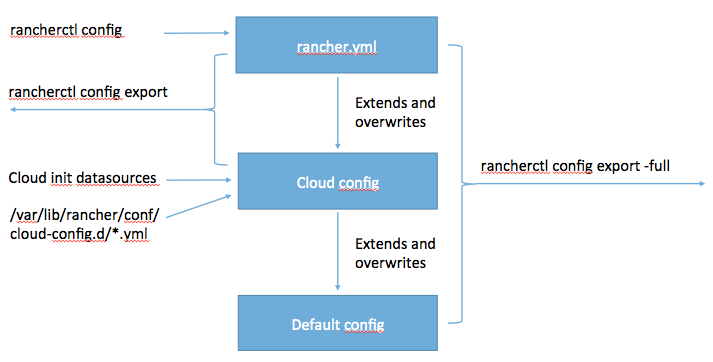
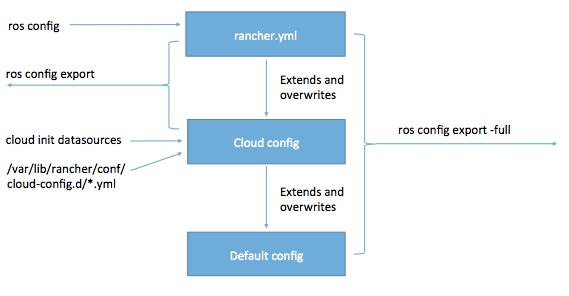
Updated outline and content

Changed region(s): [[0.0, 0.0304, 0.9859, 0.973], [0.3884, 0.0912, 0.5378, 0.152]]

diff --git a/_includes/sidebar.html b/_includes/sidebar.html
@@ -15,17 +15,11 @@
         <!-- Collect the nav links, forms, and other content for toggling -->
         <div class="navbar-collapse">
             <ul class="nav navbar-nav">
-                <li>
-                    <a>Overview</a>
-                    <ul class="list-group-submenu" id="overview">
-                        <li><a href="{{site.baseurl}}/docs/what-is-rancheros/">What is RancherOS?</a></li>
-                        <li><a href="{{site.baseurl}}/docs/why-rancheros/">Why RancherOS?</a></li>
-                        <li><a href="{{site.baseurl}}/docs/architecture/">Architecture</a></li>
-                    </ul>
-                </li>
+                <li><a href="{{site.baseurl}}/">Overview</a></li>
                 <li><a href="{{site.baseurl}}/docs/quick-start-guide/">Quick Start Guide</a></li>
                 <li>
-                    <a>Running RancherOS</a>
+                    <a href="{{site.baseurl}}/docs/running-rancheros/">
+                        Running RancherOS</a>
                     <ul class="list-group-submenu" id="running-rancheros">
                         <li>Workstation</li>
                             <ul>
@@ -49,10 +43,8 @@
                     </ul>
                 </li>
                 <li>
-                    <a>Configuration</a>
+                    <a href="{{site.baseurl}}/docs/configuration/">Configuration</a>
                     <ul class="list-group-submenu" id="configuration">
-                        <li><a href="{{site.baseurl}}/docs/configuration/">How is Rancher Configured?</a></li>
-                        <li><a href="{{site.baseurl}}/docs/configuration/detailed-configuration/">Detailed Configuration</a></li>
                         <li><a href="{{site.baseurl}}/docs/configuration/networking/">Networking</a></li>
                         <li><a href="{{site.baseurl}}/docs/configuration/users/">Users</a></li>
                         <li><a href="{{site.baseurl}}/docs/configuration/ssh-keys/">SSH Keys</a></li>
@@ -68,8 +60,8 @@
                 </li>
                 <li><a href="{{site.baseurl}}/docs/upgrading/">Upgrading</a></li>
                 <li><a href="{{site.baseurl}}/docs/cloud-config/">Cloud Config</a></li>
-                <li>
-                    <a>RancherOS Tools</a>
+                <li><a href="{{site.baseurl}}/docs/rancher-yml/">Rancher.yml</a></li>
+                <li>     <a class="no-list-group">      RancherOS Tools</a>
                      <ul class="list-group-submenu" id="tools">
                          <li><a href="{{site.baseurl}}/docs/rancheros-tools/rancheros-install/">rancheros-install</a>
                         <li><a href="{{site.baseurl}}/docs/rancheros-tools/ros/">ros</a></li>
@@ -83,7 +75,7 @@
                     </ul>
                 </li>
                 <li>
-                   <a>Under the Hood</a>
+                   <a class="no-list-group">Under the Hood</a>
                    <ul class="list-group-submenu" id="under-hood">
                         <li><a href="{{site.baseurl}}/docs/under-the-hood/directories/">How directories are mounted, Ram disk, etc.</a></li>
                         <li><a href="{{site.baseurl}}/docs/under-the-hood/startup-sequence/">RancherOS Startup Sequence</a></li>

diff --git a/css/rancher.css b/css/rancher.css
@@ -150,7 +150,9 @@ hr {
 .navbar-inverse {
     background:#2f333c;
     border: none;
+    color: #FFF;
 }
+
 
 .navbar-inverse .navbar-nav > li > a {
     color: #FFF;
@@ -159,6 +161,17 @@ hr {
 .navbar-inverse .navbar-nav > li > a:focus {
     color: #fff;
     background-color: transparent;
+    text-decoration: underline;
+}
+
+.navbar-inverse .navbar-nav > li > .no-list-group {
+    color: #788188;
+}
+.navbar-inverse .navbar-nav > li > .no-list-group:hover,
+.navbar-inverse .navbar-nav > li > .no-list-group:focus {
+    color: #788188;
+    background-color: transparent;
+    text-decoration: none;
 }
 
 .list-group-item {

diff --git a/index.md b/index.md
@@ -5,18 +5,30 @@ layout: default
 
 ## RancherOS
 ---
-The smallest, easiest way to run Docker in production at scale.  Everything in RancherOS is a container managed by Docker.  This includes system services such as udev and rsyslog.  RancherOS includes only the bare minimum amount of software needed to run Docker.  This keeps the binary download of RancherOS to about 20MB.  Everything else can be pulled in dynamically through Docker.
+The smallest, easiest way to run Docker in production at scale.  Everything in RancherOS is a container managed by Docker. This includes system services such as udev and rsyslog.  RancherOS is dramatically smaller than most traditional operating systems, because it only includes the services necessary to run Docker. This keeps the binary download of RancherOS to about 20MB. By removing unnecessary libraries and services, requirements for security patches and other maintenance are dramatically reduced. This is possible because with Docker, users typically package all necessary libraries into their containers. 
+
+Another way in which RancherOS is designed specifically for running Docker is that it always runs the latest version of Docker. This allows users to take advantage of the latest Docker capabilities and bug fixes. 
+
+Like other minimalist Linux distributions, RancherOS boots incredibly quickly, generally in 5-10 seconds.  Starting Docker containers is nearly instant, similar to starting any other process. This quickness is ideal for organizations adopting microservices and autoscaling.
+
+Docker is an open-source platform designed for developers, system admins, and DevOps, it is used to build, ship, and run containers, using simple yet powerful CLI (Command Line Interface), you can get started with Docker from [Docker user guide](https://docs.docker.com/userguide/).
 
 ### How this works
+---
 
-Everything in RancherOS is a Docker container.  We accomplish this by launching two instances of Docker.  One is what we call the system Docker which runs as PID 1.  System Docker then launches a container that runs the user Docker.  The user Docker is then the instance that gets primarily used to create containers.  We created this separation because it seemed logical and also it would really be bad if somebody did 
+Everything in RancherOS is a Docker container. We accomplish this by launching two instances of Docker. One is what we call **System Docker**, which runs the latest Docker daemon as PID 1, the first process on the system. All other system services, like ntpd, rsyslog, and console, are running in Docker containers. System Docker replaces traditional init systems like systemd, and can be used to launch [additional system services]({{site.baseurl}}/docs/configuration/system-services/).
+
+System Docker runs a special container called **User Docker**, which is another Docker daemon responsible for managing all of the user’s containers. Any containers that you launch as a user from the console will run inside this User Docker. This creates isolation from the System Docker containers, and ensures normal user commands don’t impact system services.
+
+ We created this separation because it seemed logical and also it would really be bad if somebody did 
 `docker rm -f $(docker ps -qa)` and deleted the entire OS.
 
 ![How it works]({{site.baseurl}}/img/rancheroshowitworks.png "How it works")
 
 ## Running RancherOS
 ---
-To find out more about installing RancherOS, read more about it on our [Quick Start Guide]({{site.baseurl}}/docs/quick-start-guide/).
+To find out more about installing RancherOS, jump to our [Quick Start Guide]({{site.baseurl}}/docs/quick-start-guide/).
+
 
 ## Latest Release
 ---

diff --git a/docs/configuration/index.md b/docs/configuration/index.md
@@ -6,7 +6,9 @@ layout: default
 
 ## Configuring RancherOS
 ---
-The configuration of RancherOS is the compilation of different sources. It starts with a default configuration that is shipped with RancherOS, adds in anything found through cloud init process and finally includes any changes that have been made by the user. The cloud-init process can be found in more detail [here]({{site.baseurl}}/docs/cloud-config). Any changes made to RancherOS are made by interacting with the `rancher.yml` file. If any values are changed from the default configuration, the new value is added to the `rancher.yml` file. You can use `ros config` to edit and interact with the configuration. 
+The configuration of RancherOS is the compilation of different sources. It starts with a default configuration that is shipped with RancherOS, adds in anything found through cloud init process and finally includes any changes that have been made by the user. The cloud-init process can be found in more detail [here]({{site.baseurl}}/docs/cloud-config). 
+
+Any user changes made to RancherOS are made by interacting with the `rancher.yml` file. If any values are changed from the default configuration, the new value is added to the `rancher.yml` file. More details on how to interact with the file can be found [here]({{site.baseurl}}/docs/rancher-yml).
 
 Here's a diagram of how the configuration of RancherOS is compiled.
 
@@ -26,18 +28,3 @@ We have various topics that cover how to configure specific areas of RancherOS.
 [Custom Kernels]({{site.baseurl}}/configuration/custom-kernels/)<br>
 [Building custom RancherOS ISO]({{site.baseurl}}/configuration/custom-rancheros-iso/)<br>
 [Pre-packing Docker Images]({{site.baseurl}}/configuration/prepacking-docker-images/)<br>
-
-### ros
----
-
-`ros` is the main command to interact with RancherOS configuration, here's the link to the [full ros config command docs]({{site.baseurl}}/docs/rancheros-tools/ros/config/). With these commands, you can get and set values in the configuration as well as import/export configurations.
-
-_In v0.3.1+, we changed the command from `rancherctl` to `ros`._
-
-## Cloud Config through Cloud-Init 
-
-Before the first boot of the server, you might pass in a cloud config file to be processed through the cloud-init process. Please read the [cloud config section]({{site.baseurl}}/docs/cloud-config/) for more details on the supported cloud-init functionality in cloud-config.
-
-## RancherOS Detailed Configuration 
-
-Within RancherOS, there are various areas within the system that you might want to configure. Below, we'll outline the different keys that can be saved in the `rancher.yml` file. If you choose to change these settings in the cloud config with the cloud-init process, they must be within the `rancher` key. We cover these details in a separate [section]({{site.baseurl}}/docs/configuration/detailed-configuration/).

diff --git a/docs/configuration/networking/index.md b/docs/configuration/networking/index.md
@@ -7,49 +7,38 @@ layout: default
 ## Configuring RancherOS Networking
 ---
 
-RancherOS networking can be configured if a couple of ways.
+RancherOS provides very basic support to get networking up. Changes to the networking is quite simple. 
+
+You can change the networking settings by using `ros config` to set different keys within the network key. Anything set using this command will have its change saved in the `rancher.yml` file. Changes will only take affect after you reboot.
+
+Alternatively, you can use a [cloud config]({{site.baseurl}}/docs/cloud-config) file to set up how the network is configured. 
 
 To learn more information about configuring the networking settings by using `ros config`, please refer to our [cloud config]({{site.baseurl}}/docs/cloud-config) docs. 
 
-### Networking
----
-RancherOS provides very basic support to get networking up.
-
-Here’s the default `networking` key and the other keys within networking that can be changed.
-
-```yaml
-network:
-  dns:
-    nameservers: 
-      - 8.8.8.8
-      - 8.8.4.4
-    search:
-      - mydomain.com
-      - example.com
-    domain: mydomain.com    
-  interfaces:
-    eth*: {}
-    eth0:
-      dhcp: true
-    eth1:
-      match: eth1
-      address: 172.19.8.101/24
-      gateway: 172.19.8.1
-      mtu: 1460
-    lo:
-      address: 127.0.0.1/8
-```
-
-#### DNS
+### DNS
 
 In the DNS section, you can set the `nameserver`, `search`, and `domain`, which directly map to the fields of the same name in `/etc/resolv.conf`.
 
-#### Interfaces
+```bash
+$ sudo ros config set network.dns.domain myexampledomain.com
+$ sudo ros config get network.dns.domain
+myexampledomain.com
+```
+
+
+### Interfaces
 
 In the `interfaces` section, the keys are used to match the desired interface to configure.  Wildcard globbing is supported so `eth*` will match `eth1` and `eth2`.  The available options you can set are `address`, `gateway`, `mtu`, and `dhcp`.
 
+```bash
+$ sudo ros config set network.interfaces.eth1.address 172.68.1.0/100
+$ sudo ros config get network.interfaces.eth1.address
+172.68.1.0/100
+```
 
-If you have multiple NICs on your server and you want to select a sepecific NIC for RancherOS, you will need to update the `interfaces` key. You can change this key in the [cloud config]({{site.baseurl}}/docs/cloud-config) so that it will select the NIC selection upon the first install.
+### Multiple NICs
+
+If you have multiple NICs on your server and you want to select a sepecific NIC for RancherOS, you will need to update the `interfaces` key. You can change this key in the [cloud config]({{site.baseurl}}/docs/cloud-config) so that it will select the NIC selection upon the first install. 
 
 ```yaml
 #cloud-config

diff --git a/docs/rancher-yml/index.md b/docs/rancher-yml/index.md
@@ -1,22 +1,21 @@
 ---
-title: Detailed RancherOS Configuration
+title: Rancher.yml
 layout: default
 
 ---
 
-## RancherOS Detailed Configuration 
+## Rancher.yml
 ---
 
-Within RancherOS, there are various areas within the system that you might want to configure. Below, we'll outline the different keys that can be saved in the `rancher.yml` file. If you choose to change these settings in the cloud config with the cloud-init process, they must be within the `rancher` key.
-
-## Configuring RancherOS
-
-### ros
----
+Within RancherOS, there are various areas within the system that you might want to configure. By making changes using the `ros config` commands, you'll editing the `rancher.yml` file. Below, we'll outline the different keys that can be changed. 
 
 `ros` is the main command to interact with RancherOS configuration, here's the link to the [full ros config command docs]({{site.baseurl}}/docs/rancheros-tools/ros/config/). With these commands, you can get and set values in the `rancher.yml` file as well as import/export configurations.
 
 _In v0.3.1+, we changed the command from `rancherctl` to `ros`._
+
+## Keys in RancherOS
+---
+
 
 ### Networking
 ---
@@ -132,11 +131,12 @@ system_docker:
     172.18.42.1/16, --restart=false, -g, /var/lib/system-docker, -G, root, -H, 'unix:///var/run/system-docker.sock']
 ```
 
-## Full Example of Default Configuration
+## Full Export of Configuration
 ---
 
 The full configurartion, including the built in default values in RancherOS can be viewed by running `ros config export --full`.  Below is the output of the full yaml file.
 
+Any keys in the default configuration can be changed using the `ros config` command. All changes will be saved in the `rancher.yml` file.
 
 ```yaml
 bootstrap_containers:

diff --git a/docs/cloud-config/index.md b/docs/cloud-config/index.md
@@ -24,17 +24,13 @@ In our example above, we have our `#cloud-config` line to indicate it's a cloud 
 
 ### How does Cloud Config work in RancherOS
 
-In RancherOS, we start with a default configuration. The cloud config file processed by cloud-init will extend and overwrite the default config. Finally, there is a `rancher.yml` file that will extend and overwrite the configuration. 
-
-Please see this diagram how the configuration of RancherOS is compiled.
-
-![Cloud Config]({{site.baseurl}}/img/cloud-config.png "RancherOS Configuration")
+In RancherOS, we start with a default configuration. The cloud config file processed by cloud-init will extend and overwrite the default config. Finally, there is a `rancher.yml` file that will extend and overwrite the configuration. If you want to edit the `rancher.yml` file, please go [here]({{site.baseurl}}/docs/rancher-yml).
 
 Typically, when you first boot the server, you'd pass in the cloud config file to configure the initialization of the server. After the first boot, if you have any changes for the configuration, it's recommended that you use `ros config` commands to set the `rancher` key in the configuration. Any changes will be saved in the `rancher.yml` file.
 
 ### Supported Cloud Init Directives
 
-Please review the directives that we currently support.
+Please review the directives that we currently support in RancherOS.
 
 ```yaml
 #cloud-config
@@ -61,7 +57,3 @@ rancher:
     - 8.8.4.4
 
 ```
-
-### RancherOS Configuration
-
-To read more about the details of the configuration, please read the detailed [configuration section]({{site.baseurl}}/docs/configuration/).
